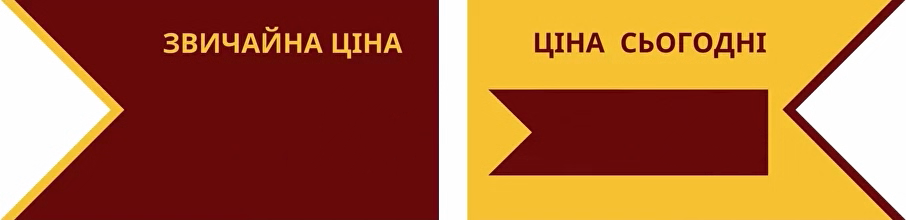
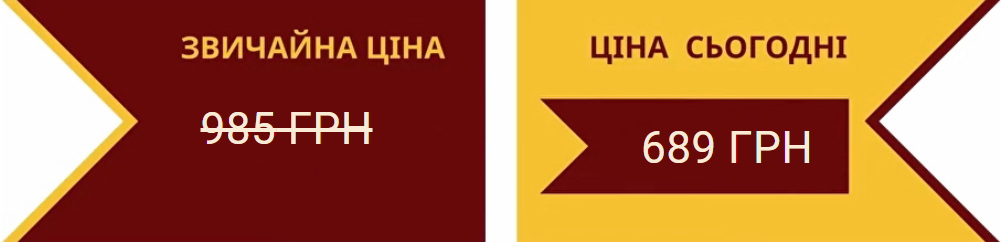
update

diff --git a/src/components/Proposal/Proposal.jsx b/src/components/Proposal/Proposal.jsx
@@ -1,8 +1,8 @@
 import './Proposal.css';
 import { Link } from 'react-scroll';
 import CountTimeDown from "../CountTimeDown/CountTimeDown";
-let price = 985;
-let todayPrice = 689;
+// let price = 985;
+// let todayPrice = 689;
 
 
 export const Proposal = () => {
@@ -39,8 +39,8 @@ export const Proposal = () => {
           src={require('../../Images/prices1.png')}
           alt="Шаблон ціни тижня"
         />
-        <span className="proposal-price price-text">{price} ГРН</span>
-        <span className="proposal-todayPrice price-text">{todayPrice} ГРН</span>
+        {/* <span className="proposal-price price-text">{price} ГРН</span>
+        <span className="proposal-todayPrice price-text">{todayPrice} ГРН</span> */}
       </div>
       <h3 className='proposal-text'>Пропозиція діє ще:</h3>
       <CountTimeDown/>

diff --git a/src/components/Proposal/Proposal.css b/src/components/Proposal/Proposal.css
@@ -23,7 +23,7 @@ padding-bottom: 50px;
   margin-top: 30px;
   font-size: 25px;
   text-indent: 2ch;
-  text-align: justify;
+  text-align: left;
 }
 .proposal-item::before {
   display: block;
@@ -40,7 +40,7 @@ padding-bottom: 50px;
 .proposal-allPrice {
   position: relative;
   margin: 100px auto 80px auto;
-  width:340px;
+  width:100%;
 }
 .proposal-price {
   position: absolute;

diff --git a/src/components/ProductSize/ProductSize.css b/src/components/ProductSize/ProductSize.css
@@ -28,7 +28,8 @@ th, td {
   margin-top: 70px;
   margin-left: auto;
   margin-right: auto;
-  width: 200px;
+  width: 150px;
+  height: 2.5px;
   border-radius: 10px;
 }
 @media only screen and (min-width: 480px) {
